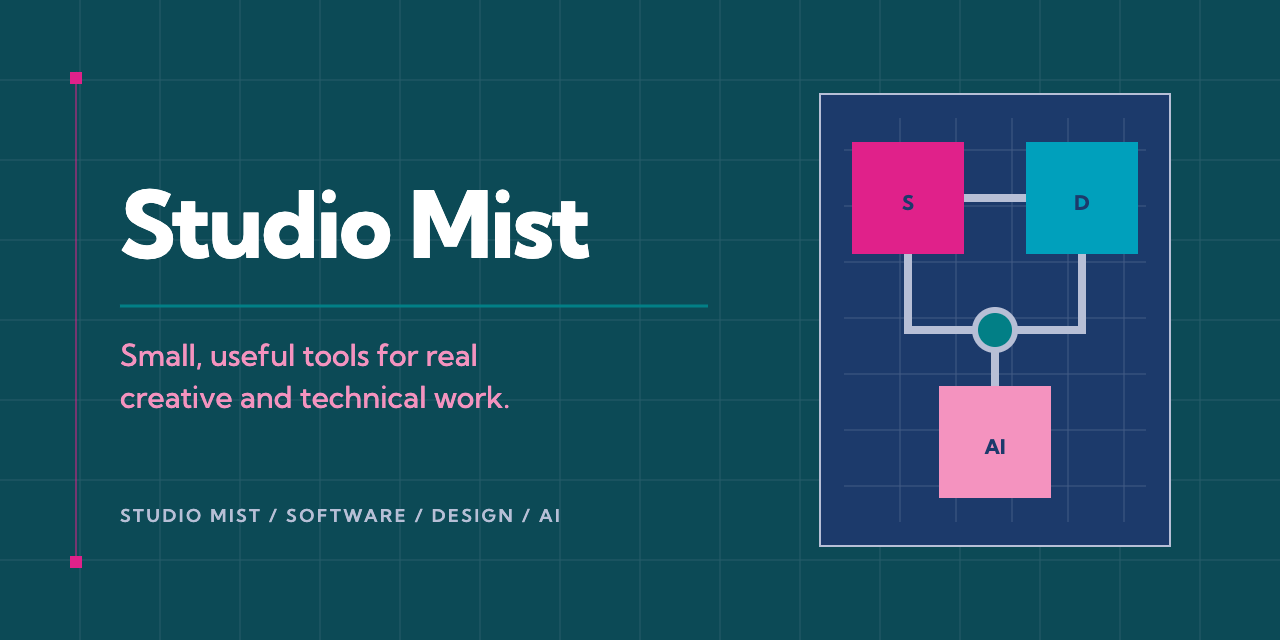
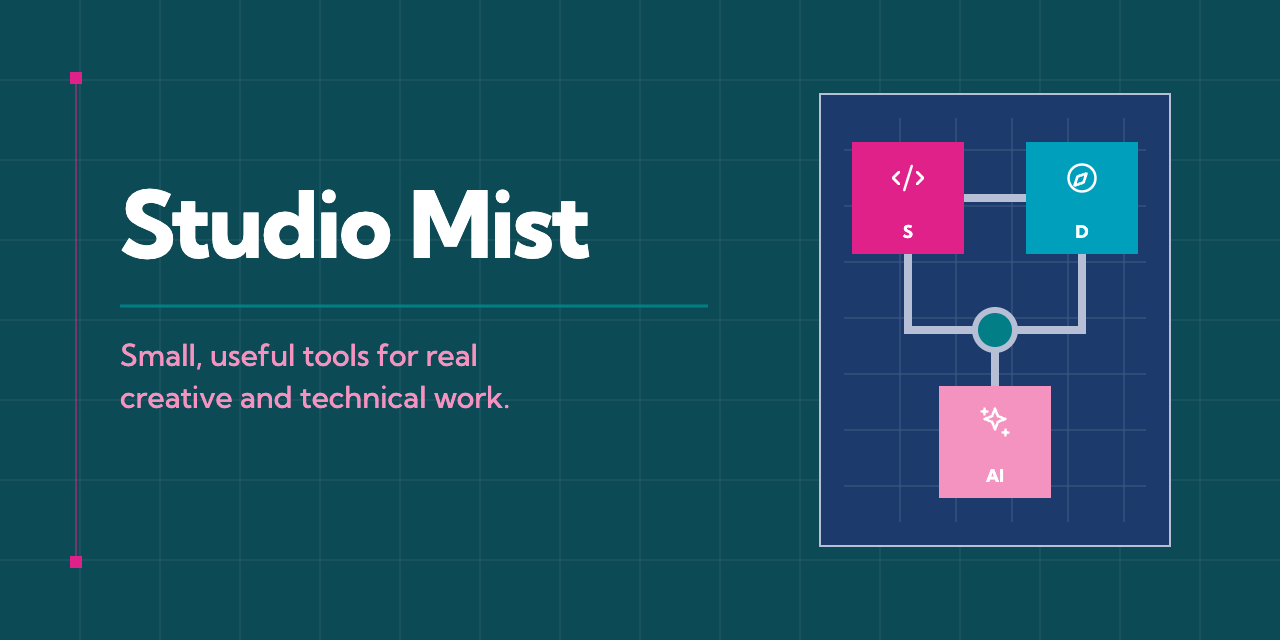
Refine Studio Mist profile diagram

diff --git a/brand/README.md b/brand/README.md
@@ -15,7 +15,7 @@ The bundled font is distributed under the SIL Open Font License in [`fonts/OFL.t
 
 ## Palette
 
-Use these seven brand colours, plus white for primary headline text:
+Use these seven brand colours, plus white for primary headline text and small high-contrast labels or icons on colour blocks:
 
 | Token | Value | Role |
 |---|---|---|
@@ -26,7 +26,7 @@ Use these seven brand colours, plus white for primary headline text:
 | Teal | `#027f86` | secondary structure |
 | Deep teal | `#0c4a56` | alternate dark field |
 | Hot pink | `#e0218a` | primary accent and focal signal |
-| White | `#ffffff` | primary headline text only |
+| White | `#ffffff` | primary headlines and high-contrast labels or icons |
 
 ## Composition
 
